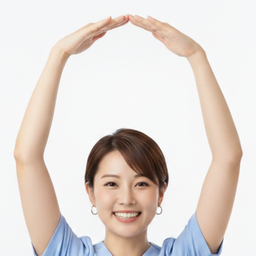
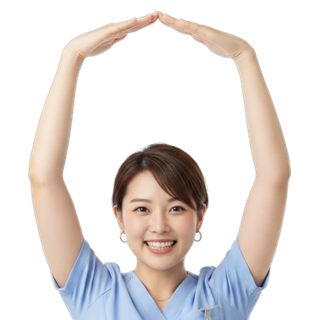
「よい一皿です」のスタンプ: 背景透過・バストアップに差し替え
- 背景を透過(切り抜き)に。丸枠のシール調をやめ、白フチ+影で浮かせる形へ。
- バストアップに寄せて腕の長さが目立たないようにトリミング(輪+頭+肩)。
- ⚠Cloudflareが画像をキャッシュするので img の ?v= を 2 に上げる
  (上げないと差し替えても古い画像が出続ける)。
- 切り抜きは PIL のフラッドフィル(四隅+輪の内側を種)。しきい値一括だと胸の
  白い名札まで抜けるので、連結成分で外側と輪の内側だけ透明にしている。
- ⚠生成時に「腕を短く」は3回試しても効かなかった(肘90度/頭半分の高さ 等を
  指示しても腕は長いまま)。トリミングで解決している。

diff --git a/public/tablet-home.html b/public/tablet-home.html
@@ -478,9 +478,10 @@
   .meal{position:absolute;top:8px;left:8px;background:rgba(0,0,0,.6);color:#fff;font-size:12.5px;font-weight:800;padding:3px 9px;border-radius:999px;z-index:2}
   /* ⭐「よい一皿です」の合図: なぎさの○ポーズをサムネ右上に貼る (2026-08-07 社長)。
      ⚠良いときだけ出す。⚠左上=区分ラベル / 下辺=直したいのは の帯 と重ならない位置に置く。 */
-  .tthumbwrap .goodstamp{position:absolute;top:6px;right:6px;width:78px;height:78px;border-radius:50%;
-    object-fit:cover;background:#fff;border:3px solid #0ca30c;z-index:4;
-    box-shadow:0 0 0 2px #fff, 0 2px 7px rgba(0,0,0,.3)}   /* 白縁=暗い料理写真の上でも輪郭が消えない */
+  /* ⚠背景は透過PNG(切り抜き)。丸い枠で囲うとシール然として重いので、白フチ＋影だけで浮かせる。
+     ⚠料理写真は色が様々=白フチが無いと輪郭が溶ける(drop-shadowを2枚重ねる)。 */
+  .tthumbwrap .goodstamp{position:absolute;top:2px;right:4px;width:104px;height:auto;z-index:4;
+    filter:drop-shadow(0 0 2px #fff) drop-shadow(0 0 4px rgba(255,255,255,.9)) drop-shadow(0 3px 4px rgba(0,0,0,.4))}
   .ttitle.sm{font-size:15.5px;font-weight:700;line-height:1.42;max-height:2.9em;overflow:hidden}
   .anon{font-size:12.5px;font-weight:800;color:#8a7d66}
   .likebtn{margin-left:auto;background:#fff;border:1.5px solid #e5b3c4;color:#d23b6a;font-weight:900;font-size:16px;padding:5px 14px;border-radius:999px;cursor:pointer;display:inline-flex;align-items:center;gap:6px;font-family:inherit}
@@ -2679,7 +2680,7 @@ function plazaTile(p,i){
      ⚠良い時だけ。他のランクには何も出さない(全部に出すと合図にならない)。
      ⚠左上は区分(🍱昼)、下辺は『直したいのは』の帯が既に居るので、置けるのは右上だけ。 */
   var stamp = (isMeal && rank==='good')
-    ? '<img class="goodstamp" src="/assets/nagisa_good.png?v=1" alt="よい一皿です" loading="lazy">' : '';
+    ? '<img class="goodstamp" src="/assets/nagisa_good.png?v=2" alt="よい一皿です" loading="lazy">' : '';
   var thumb = p.image_url
     ? '<div class="tthumbwrap"><div class="tthumb"><img src="'+esc(p.image_url)+'" loading="lazy"></div>'+(p.meal_type?'<span class="meal">'+mealLabel(p.meal_type)+'</span>':'')+stamp+'</div>'
     : '<div class="tthumb soc-txt">🎭</div>';

diff --git a/scripts/gen_nagisa_maru.js b/scripts/gen_nagisa_maru.js
@@ -21,7 +21,13 @@ POSE (CRITICAL — follow exactly): Both arms are raised above her head and CURV
 
 EXPRESSION: bright, happy, beaming smile with eyes slightly narrowed in a genuine smile, looking straight at the viewer. Cheerful and congratulating, as if saying "よくできました!".
 
-FRAMING: waist-up (bust-up) composition, centered, with the whole circle made by her arms fully inside the frame — DO NOT crop the hands or the top of the circle. Leave about 8% padding above her hands.
+BODY PROPORTIONS (CRITICAL): Natural, correct, realistic human proportions. Her upper arms and forearms must be NORMAL LENGTH — do NOT stretch or elongate the arms.
+- Elbows are BENT to roughly 90 degrees, so the ring sits LOW and CLOSE to her head, resting just above her hair.
+- The gap between the top of her head and her touching hands must be only about HALF a head height. The hands must NOT float high above her.
+- The arms hug close around her head, making a small compact round ring — like a person making "maru" right on top of their head.
+- No distortion, no extra-long limbs, no thin stretched forearms.
+
+FRAMING: TIGHT BUST-UP composition — visible from the middle of the chest upward only (chest, shoulders, neck, head) plus the raised arms. Her head should be large in the frame. The closed ring made by her arms must be fully inside the frame — DO NOT crop the hands. Leave only about 5% padding above her hands.
 
 BACKGROUND: pure solid white (#FFFFFF), no props, no floor, no shadow other than a very soft one behind her.
 
